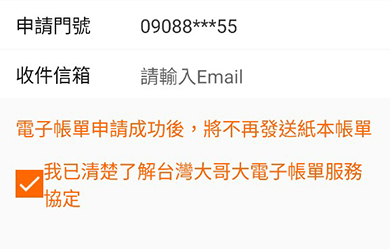
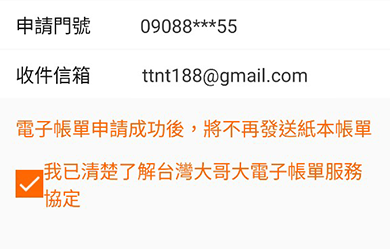
新增 1.電子帳單-已驗證內容 2.版本說明內容

Changed region(s): [[0.3385, 0.253, 0.8, 0.3655]]

diff --git a/TstarApp/js/main.js b/TstarApp/js/main.js
@@ -74,7 +74,7 @@ window.onload = () =>{
             // {idx:3 ,search:'小額代收明細', title: '小額代收' ,        statusFn:'小額代收使用狀況' , statusIs:'有使用',
             // arr:[{statusKey:'有使用',msg:'有使用'},{statusKey:'未使用',msg:'未使用'}]},            
             {idx:4 ,search:'帳單類型', title: '帳單類型' ,        statusFn:'帳單類型轉換' , statusIs:'紙本帳單',
-            arr:[{statusKey:'紙本帳單',msg:'紙本帳單'},{statusKey:'電子帳單_待驗證',msg:'電子帳單(待驗證)'}]},            
+            arr:[{statusKey:'紙本帳單',msg:'紙本帳單'},{statusKey:'電子帳單_待驗證',msg:'電子帳單(待驗證)'},{statusKey:'電子帳單_已驗證',msg:'電子帳單(已驗證)'}]},            
             // {idx:5 ,search:'', title: '' ,        statusFn:'' , statusIs:'',
             // arr:[{statusKey:'',msg:''},{statusKey:'',msg:''}]},            
         ]})            
@@ -384,11 +384,11 @@ window.onload = () =>{
             const InnerLinkdata = reactive({data:[
                 {backBtn:'',              key:'', headerTxt:'',              contentBg:''},
                 {backBtn:'index',         key:'會員資料設定', headerTxt:'會員資料設定',              contentBg:'./img/ContBg/gray.png'},
-                {backBtn:'會員資料設定',   key:'變更電子帳單信箱內容', headerTxt:'變更電子帳單信箱',              contentBg:'./img/ContBg/fa_gray.png'},
+                {backBtn:'會員資料設定',   key:'變更電子帳單信箱', headerTxt:'變更電子帳單信箱',              contentBg:'./img/ContBg/fa_gray.png'},
                 {backBtn:'會員資料設定',   key:'帳單類型設定', headerTxt:'帳單類型設定',              contentBg:'./img/ContBg/gray.png'},
                 {backBtn:'會員資料設定',   key:'帳單地址設定', headerTxt:'帳單地址設定',              contentBg:'./img/ContBg/lavender.png'},
                 {backBtn:'會員資料設定',   key:'電子帳單申請', headerTxt:'電子帳單申請',              contentBg:'./img/ContBg/fa_gray.png'},
-                {backBtn:'會員資料設定',   key:'版本說明', headerTxt:'版本說明',              contentBg:'./img/ContBg/gray.png'},
+                {backBtn:'會員資料設定',   key:'版本說明', headerTxt:'版本說明',              contentBg:'./img/ContBg/fa_gray.png'},
                 {backBtn:'會員資料設定',   key:'email設定', headerTxt:'Email設定',              contentBg:'./img/ContBg/fa_gray.png'},
                 {backBtn:'會員資料設定',   key:'變更暱稱', headerTxt:'變更暱稱',              contentBg:'./img/ContBg/gray.png'},
                 {backBtn:'index',         key:'et3', headerTxt:'Tinder 交友平台',              contentBg:'./img/ContBg/black.png'},
@@ -659,9 +659,11 @@ window.onload = () =>{
             {type:'資訊帳單', title:'電子帳單',     billType:'紙本帳單' , txt:'電子帳單申請', hasEdit: false,editKey:'電子帳單申請', blueTxt:true, hasOrgBool:false ,active: false},
             {type:'資訊帳單', title:'帳單類型',     billType:'電子帳單_待驗證' , txt:'電子信箱待驗證', hasEdit: true,editKey:'帳單類型設定', blueTxt:false, hasOrgBool:false ,active: false},
             {type:'資訊帳單', title:'電子帳單',     billType:'電子帳單_待驗證' , txt:'*t*t*8*@gmail.com', hasEdit: true,editKey:'變更電子帳單信箱_notice', blueTxt:false, hasOrgBool:false ,active: false},
+            {type:'資訊帳單', title:'帳單類型',     billType:'電子帳單_已驗證' , txt:'電子帳單', hasEdit: false,editKey:'', blueTxt:false, hasOrgBool:false ,active: false},
+            {type:'資訊帳單', title:'電子帳單',     billType:'電子帳單_已驗證' , txt:'*t*t*8*@gmail.com', hasEdit: true,editKey:'變更電子帳單信箱', blueTxt:false, hasOrgBool:false ,active: false},
             {type:'更多設定', title:'保持登入', txt:'', hasEdit: false,  editKey:'keeplogin', hasOrgBool:true ,active: true, },
             {type:'更多設定', title:'接收推播', txt:'', hasEdit: false,  editKey:'接收推播', hasOrgBool:true ,active: false, },
-            {type:'更多設定', title:'APP 版本號碼', txt:'7.0.0', hasEdit: false,editKey:'', hasOrgBool:false ,active: false, },
+            {type:'更多設定', title:'APP 版本號碼', txt:'7.0.0', hasEdit: false,editKey:'版本說明', hasOrgBool:false ,active: false, },
         ]})
         const packageMemberSetting = (key) =>{
             
@@ -884,6 +886,7 @@ window.onload = () =>{
          const billType = ref('紙本帳單')
          const handbillType = (key) =>{
             billType.value = key
+            backToMemberSetting()
          }
         // notice整合
         const noticeData = reactive({data:[

diff --git a/TstarApp/main.html b/TstarApp/main.html
@@ -712,10 +712,12 @@
                                 <ul v-for="list in billInfoListRender" :key="list.title">
                                     <li>
                                         <span class="itemTitle">{{list.title}}</span>
+
                                         <span v-show="!list.blueTxt" :class="['itemTxt', {'hasEdit': list.hasEdit}]">{{list.txt}}
                                             <i v-show="list.hasEdit"  :data-key="list.editKey"  :data-href="list.editKey" @click="handHrefCont" class="edit"></i>
                                         </span>
-                                        <span v-show="list.blueTxt" class="itemTxt blueTxt":data-href="list.editKey" @click="handHrefCont">
+
+                                        <span v-show="list.blueTxt" class="itemTxt blueTxt" :data-href="list.editKey" @click="handHrefCont">
                                             {{list.txt}}
                                         </span>
                                     </li>
@@ -727,9 +729,7 @@
                                 <ul v-for="list in memberMoreSetListRender" :key="list.title">
                                     <li>
                                         <span class="itemTitle">{{list.title}}</span>
-                                        <span v-show="!list.hasOrgBool" :class="['itemTxt', {'hasEdit': list.hasEdit}]">{{list.txt}}
-                                            <i v-show="list.hasEdit" :data-href="list.editKey" @click="handHrefCont" class="edit"></i>
-                                        </span>
+                                        <span v-show="!list.hasOrgBool" class="itemTxt btn" :data-href="list.editKey" @click="handHrefCont">{{list.txt}}</span>
                                         <span v-show="list.hasOrgBool" :class="['orgBool', {'active': list.active}]" 
                                         :data-key="list.editKey"
                                         @click="handMemberSettingBool"
@@ -852,13 +852,15 @@
                             <div class="demobox">
                                 <img src="./img/detail/demo_電子帳單申請.png" alt="">
                             </div>                             
-                            <div class="orgBtn center mt-3">確認送出</div>
+                            <div class="orgBtn center mt-3" data-fn="帳單類型轉換" data-key="電子帳單_待驗證" @click="handquickLinkStatus">確認送出</div>
                         </div>
                         <div class="ItemBox" v-if="detailCont[0] === '版本說明'">
+                            <div class="demobox">
+                                <img src="./img/detail/demo_版本說明.png" alt="">
+                            </div> 
                             <div class="block null"></div>
                         </div>
                     </div> 
-                    
                 </section>               
                 <div class="noticeContainer">
                     <!-- 紙本帳單地址 -->
@@ -900,7 +902,7 @@
                             <h1 class="title">提醒</h1>
                             <span class="msg">電子帳單申請中，若你尚未進行認證，請盡速至郵箱認證以開放服務</span>
                             <span class="btn cancel" @click="handNoticeIs" data-key="none">取消</span>
-                            <span class="btn"       @click="handHrefCont" data-href="變更電子帳單信箱內容">修改</span>
+                            <span class="btn"       @click="handHrefCont" data-href="變更電子帳單信箱">修改</span>
 
                         </div>
                     </div> 

diff --git a/TstarApp/css/main.scss b/TstarApp/css/main.scss
@@ -1686,6 +1686,11 @@ body{
         right: 1rem;
         color: #999;
         // top: ;
+        &.btn{
+            text-align: right;
+            cursor: pointer;
+            width: 100px;
+        }
     }
     .hasEdit{
         position: absolute;

diff --git a/TstarApp/css/main.css b/TstarApp/css/main.css
@@ -1471,6 +1471,11 @@ body {
   right: 1rem;
   color: #999;
 }
+.memberSettingBox ul .itemTxt.btn {
+  text-align: right;
+  cursor: pointer;
+  width: 100px;
+}
 .memberSettingBox ul .hasEdit {
   position: absolute;
   right: 3.5rem;
